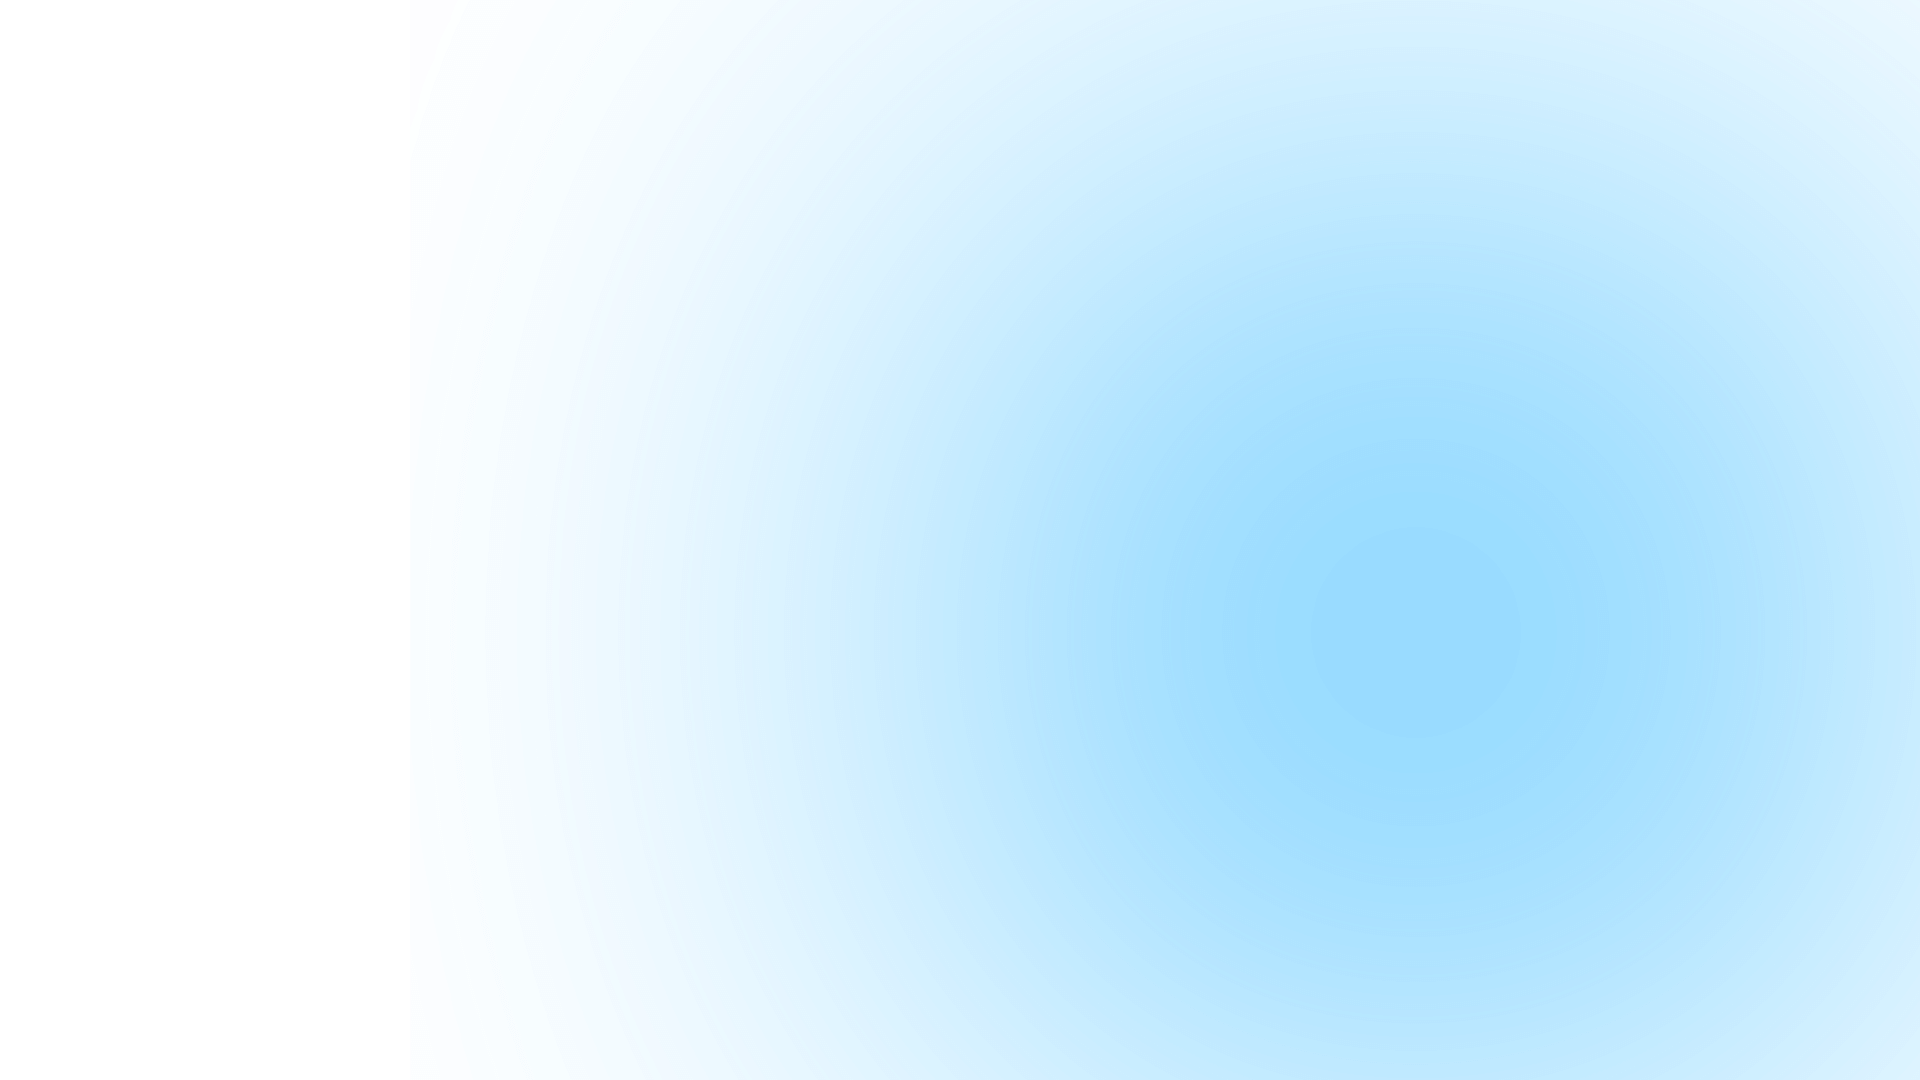
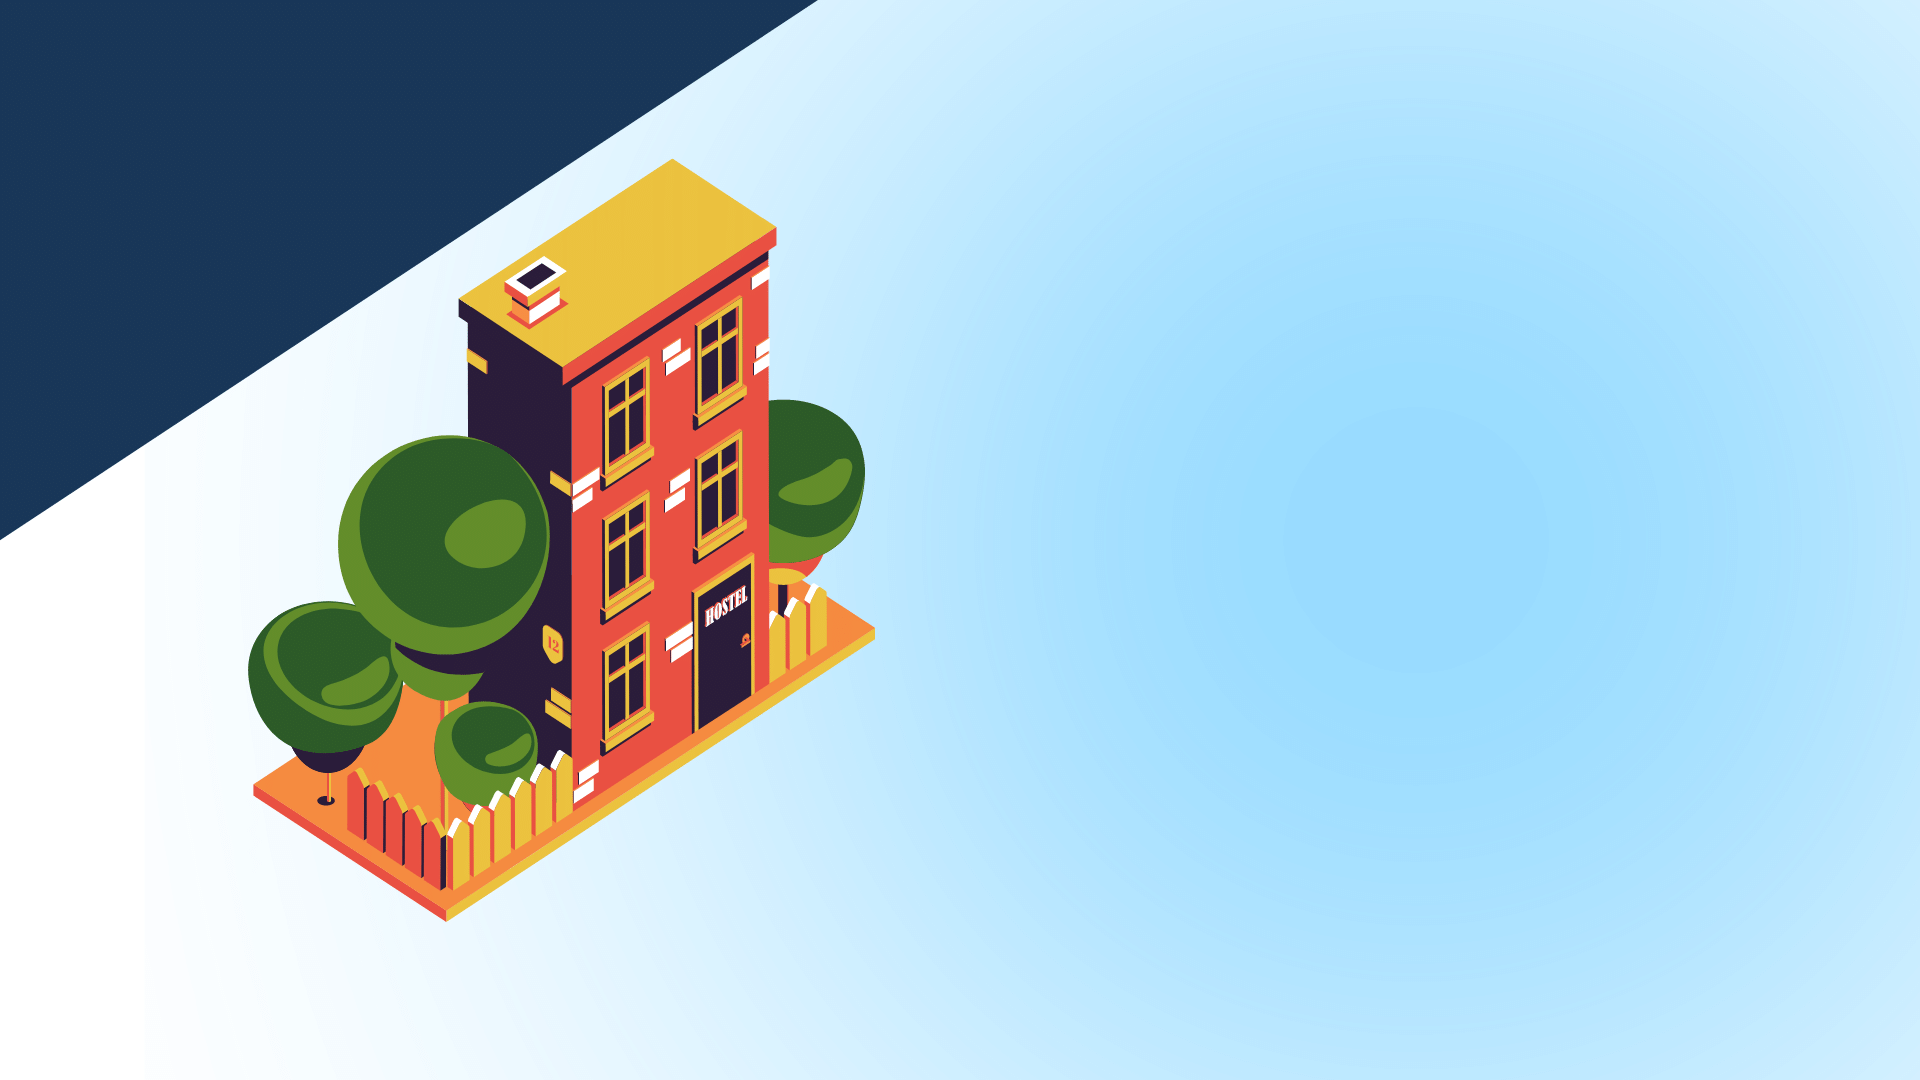
website is ready

diff --git a/backend/app/controllers/admin.controller.js b/backend/app/controllers/admin.controller.js
@@ -1,6 +1,7 @@
 const db = require("../models");
 const { checkAdminLogin } = require("../methods/methods");
 const session = require("express-session");
+const moment = require("moment")
 const Admins = db.admins;
 const Complaints = db.complaint;
 const Op = db.Sequelize.Op;
@@ -38,7 +39,7 @@ exports.status = (req, res) => {
 			}).catch(err => {
 				res.status(500).send(err);
 			})
-		}else if (data.level == "2") {
+		} else if (data.level == "2") {
 			Complaints.count({
 				where: {
 					[Op.not]: { "status": null },
@@ -56,8 +57,8 @@ exports.status = (req, res) => {
 		} else {
 			Complaints.count({
 				where: {
-					[Op.not]: [{"status": null}],
-					"level":"3"
+					[Op.not]: [{ "status": null }],
+					"level": "3"
 				}
 			}).then(data => {
 				res_json["solved"] = data.toString();
@@ -72,18 +73,18 @@ exports.status = (req, res) => {
 	})
 
 }
-exports.create = (req, res) => {
-	Admins.create({
-		email: req.body.email,
-		password: req.body.password,
-		level: req.body.level,
-		name: req.body.name
-	}).then(data => {
-		res.status(201).send(data)
-	}).catch(err => {
-		res.status(500).send(err)
-	})
-}
+// exports.create = (req, res) => {
+// 	Admins.create({
+// 		email: req.body.email,
+// 		password: req.body.password,
+// 		level: req.body.level,
+// 		name: req.body.name
+// 	}).then(data => {
+// 		res.status(201).send(data)
+// 	}).catch(err => {
+// 		res.status(500).send(err)
+// 	})
+// }
 // exports.adminStatus = (req, res) => {
 // 	if (!req.body.email || !req.body.password) {
 // 		res.status(400).send({
@@ -144,15 +145,43 @@ exports.complaints = (req, res) => {
 	if (!ADMIN_LEVEL) {
 		ADMIN_LEVEL = "1";
 	}
-
+	if (ADMIN_LEVEL < 3) {
+		var NEW_LEVEL = (parseInt(ADMIN_LEVEL) + 1).toString();
+		Admins.findOne({
+			where: {
+				level: NEW_LEVEL
+			}
+		}).then(data => {
+			Complaints.update({
+				"level": NEW_LEVEL,
+				"handler_name": data.name,
+				"status": ""
+			}, {
+				where: {
+					createdAt: {
+						[Op.lte]: moment().subtract(7, 'days').toDate()
+					}
+				}
+			}).then(data => {
+			}).catch(err => {
+				res.status(500).send({
+					message: err
+				})
+			})
+		}).catch(err => {
+			res.status(500).send({
+				message: err
+			})
+		})
+	}
 	Complaints.findAll({
 		limit: 30,
 		where: {
 			level: ADMIN_LEVEL,
 			// status: null,
 		},
-		order:[
-			["status","ASC"],
+		order: [
+			["status", "ASC"],
 		]
 	})
 		.then(data => {

diff --git a/frontend/src/components/admin/Table.js b/frontend/src/components/admin/Table.js
@@ -128,19 +128,17 @@ function Table() {
   return (
     <>
       <TableOptions total={incomingData.length} pending={incomingData.filter((val) => val.status == null).length} solved={isNaN(solved) ? 0 : solved}/>
-      <div className="modal fade" id="exampleModal" tabIndex="-1" aria-labelledby="exampleModalLabel" aria-hidden="true">
+      <div className="modal fade hide" id="exampleModal" tabIndex="-1" aria-labelledby="exampleModalLabel" data-keyboard="false" data-backdrop="static" aria-hidden="true">
           <div className="modal-dialog modal-dialog-centered modal-dialog-scrollable">
             <div className="modal-content">
               <div className="modal-header">
                 <h5 className="modal-title">Complaint:</h5>
-                <button type="button" className="btn-close" data-bs-dismiss="modal" aria-label="Close"></button>
               </div>
               <div className="modal-body">
                 Complaint: <p id='modal-content'></p>
                 Complaint ID: <b><p id='complaint-id'></p></b>
               </div>
               <div className="modal-footer">
-                <button type="button" className="btn btn-secondary" data-bs-dismiss="modal">Close</button>
                 <button type="button" className="btn btn-success" onClick={evt => handleAccept(evt.target.parentElement.parentElement.querySelector("#complaint-id").textContent,evt)}>ACCEPT</button>
                 <button type="button" className="btn btn-danger" onClick={evt => handleReject(evt.target.parentElement.parentElement.querySelector("#complaint-id").textContent,evt)}>REJECT</button>
                 {admin_level == 3 ? "" : <button type="button" className="btn btn-primary" onClick={evt => handleEscalate(evt.target.parentElement.parentElement.querySelector("#complaint-id").textContent,evt)}>ESCALATE</button>}

diff --git a/frontend/src/components/admin/Tablerow.js b/frontend/src/components/admin/Tablerow.js
@@ -10,7 +10,7 @@ function Tablerow(props) {
         <td>{props.rollno}</td>
         <td>{props.top}</td>
         <td>{(props.status == "ACCEPT" ? <p className="alert alert-success m-0 px-2 p-0">{props.status}</p>:<p className="alert alert-warning m-0 px-2 p-0">{props.status}</p>)}</td>
-        <td><button type="button" onClick={evt => { document.querySelector("#modal-content").innerHTML = evt.target.parentElement.parentElement.querySelector(".d-none").textContent; document.querySelector("#complaint-id").innerHTML = props.cid }} className={props.status!= null ? (props.status.length < 1 ? "btn btn-primary":"btn btn-outline-primary"):"btn btn-primary"} data-bs-toggle="modal" data-bs-target="#exampleModal">
+        <td><button type="button" onClick={evt => { document.querySelector("#modal-content").innerHTML = evt.target.parentElement.parentElement.querySelector(".d-none").textContent; document.querySelector("#complaint-id").innerHTML = props.cid; evt.target.parentElement.parentElement.remove() }} className={props.status!= null ? (props.status.length < 1 ? "btn btn-primary":"btn btn-outline-primary"):"btn btn-primary"} data-bs-toggle="modal" data-backdrop="static" data-keyboard="false" data-bs-target="#exampleModal">
         View Complaint
         </button>
         </td>

diff --git a/frontend/src/components/MainPage.jsx b/frontend/src/components/MainPage.jsx
@@ -1,8 +1,9 @@
 import './mainstyle.css'
 import icon from './images/icon.png'
+import leftimg from "./images/left_img.jpg"
 import { Link } from 'react-router-dom'
 import { FontAwesomeIcon } from '@fortawesome/react-fontawesome';
-import { faAnglesRight, faCoffee} from '@fortawesome/free-solid-svg-icons';
+import { faAnglesRight, faCoffee } from '@fortawesome/free-solid-svg-icons';
 
 
 // import bg from "./images/bg_img.webp"
@@ -23,7 +24,7 @@ function MainPage() {
                 <p className="text-info_main">
                     We have created an awesome app to takle the problems related to hostels. Tighten your seat belt to go into a fascinating journy.
                 </p>
-                <Link className="btn_main display-3 btn-primary text-decoration-none shadow" to={"/login"}>Get Started <FontAwesomeIcon icon={ faAnglesRight } /></Link>
+                <Link className="btn_main display-3 btn-primary text-decoration-none shadow" to={"/login"}>Get Started <FontAwesomeIcon icon={faAnglesRight} /></Link>
             </div>
         </div>
     </>

diff --git a/backend/app/controllers/complaints.controller.js b/backend/app/controllers/complaints.controller.js
@@ -106,21 +106,21 @@ exports.findAll = (req, res) => {
 		});
 };
 
-exports.findOne = (req, res) => {
-	const id = req.params.id;
-	Complaints.findByPk(id)
-		.then(data => {
-			if (data) {
-				res.send(data);
-			} else {
-				res.status(404).send({
-					message: `Cannot find complaint with id=${id}.`
-				});
-			}
-		})
-		.catch(err => {
-			res.status(500).send({
-				message: "Error retrieving complaint with id=" + id
-			});
-		});
-};
+// exports.findOne = (req, res) => {
+// 	const id = req.params.id;
+// 	Complaints.findByPk(id)
+// 		.then(data => {
+// 			if (data) {
+// 				res.send(data);
+// 			} else {
+// 				res.status(404).send({
+// 					message: `Cannot find complaint with id=${id}.`
+// 				});
+// 			}
+// 		})
+// 		.catch(err => {
+// 			res.status(500).send({
+// 				message: "Error retrieving complaint with id=" + id
+// 			});
+// 		});
+// };

diff --git a/frontend/src/components/admin/Admin.jsx b/frontend/src/components/admin/Admin.jsx
@@ -33,7 +33,7 @@ function ChangePwd() {
                 <Link className='' to={'/'}><img className='ps-lg-3' src={icon} height="60" /></Link>
             </div>
             <div className="items-right">
-                <Link className='btn btn-outline-primary px-lg-4 mx-1 mx-lg-2 rounded-5' to={'/'}><FontAwesomeIcon icon={faHome} /> Home</Link>
+                <Link className='btn btn-primary px-lg-4 mx-1 mx-lg-2 rounded-5' to={'/'}><FontAwesomeIcon icon={faHome} /> Home</Link>
                 <Link className='btn btn-outline-primary active mx-1 mx-lg-2 px-lg-4 rounded-5' to={'/dashboard/student'}>Dashboard</Link>
                 <Link className='btn btn-outline-danger mx-1 mx-lg-2 px-lg-4 rounded-5' to={'/logout'}>Logout<FontAwesomeIcon className='ps-2' icon={faSignOut} /></Link>
             </div>

diff --git a/frontend/src/components/mainstyle.css b/frontend/src/components/mainstyle.css
@@ -4,8 +4,8 @@ body{
     padding: 0;
     margin: 0;
     font-family: sans-serif;
-    /* background: url(./images/gradient_bg.png); */
-    background: radial-gradient(circle at 78% 65%,#00a6ffbb 1%, #fff 60%);
+    background: url(./images/gradient_bg.png);
+    /* background: radial-gradient(circle at 78% 65%,#00a6ffbb 1%, #fff 60%); */
     background-repeat: no-repeat;
     background-size: cover;
     color: #183759;

diff --git a/backend/app/routes/students.routes.js b/backend/app/routes/students.routes.js
@@ -2,7 +2,7 @@ module.exports = app => {
     const students = require("../controllers/students.controller.js");
     var router = require("express").Router();
     
-    router.post("/", students.create);
+    // router.post("/", students.create);
     router.get("/", students.login_status);
     router.post("/login", students.login);
 

diff --git a/backend/app/routes/admin.routes.js b/backend/app/routes/admin.routes.js
@@ -9,7 +9,7 @@ module.exports = app => {
     router.post("/complaints/modify", admin.getAction);
 
     router.post("/login", admin.login);
-    router.post("/create",admin.create);
+    // router.post("/create",admin.create);
 
     // router.get("/status",admin.adminStatus);
 

diff --git a/frontend/src/components/students/Complaintform.js b/frontend/src/components/students/Complaintform.js
@@ -39,6 +39,7 @@ function ComplaintForm() {
         if (json["success"]) {
           setSuccess(true);
           setError(null);
+          form.current.reset();
         } else {
           setError(json["message"]);
           setSuccess(false);
